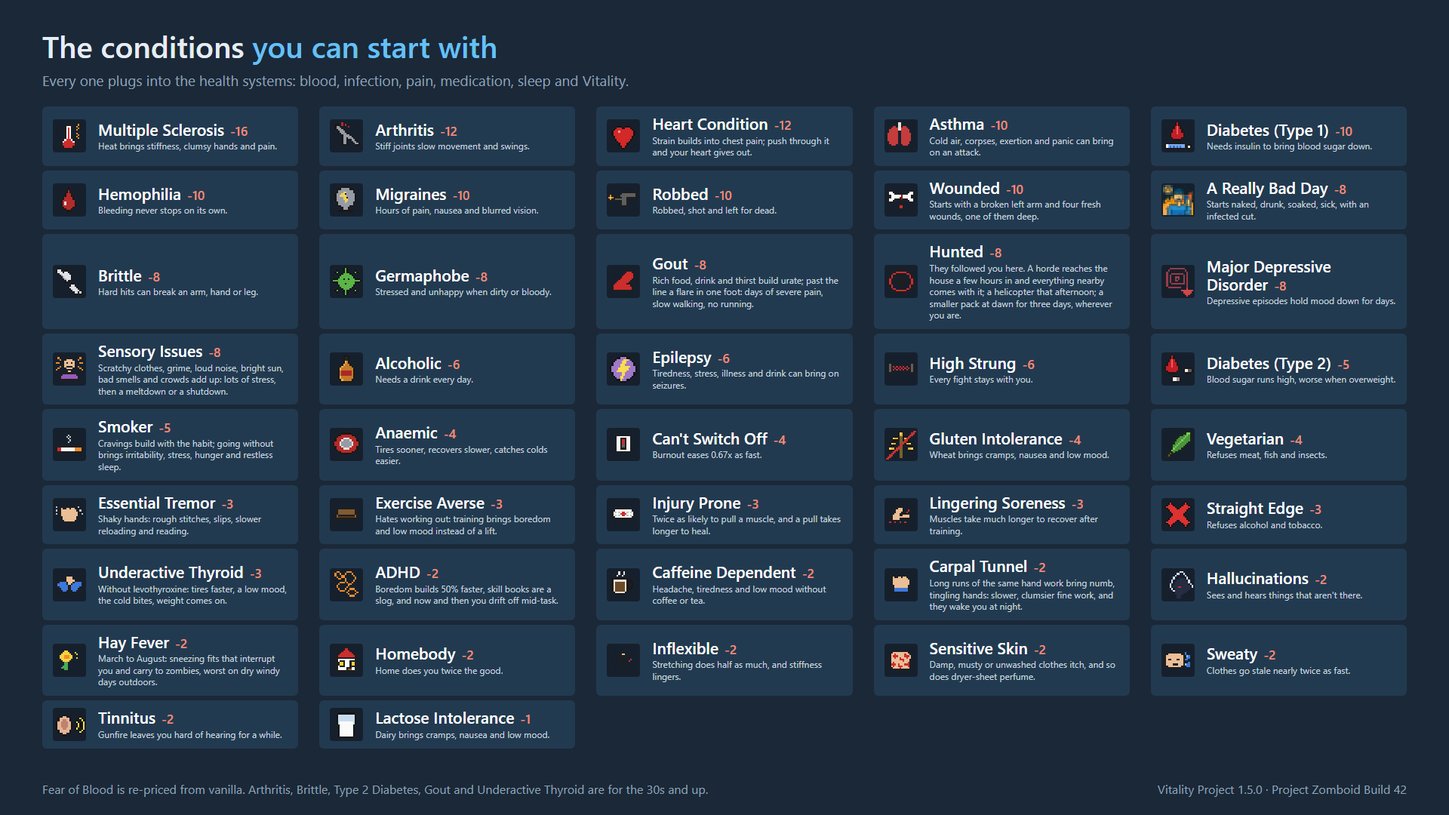
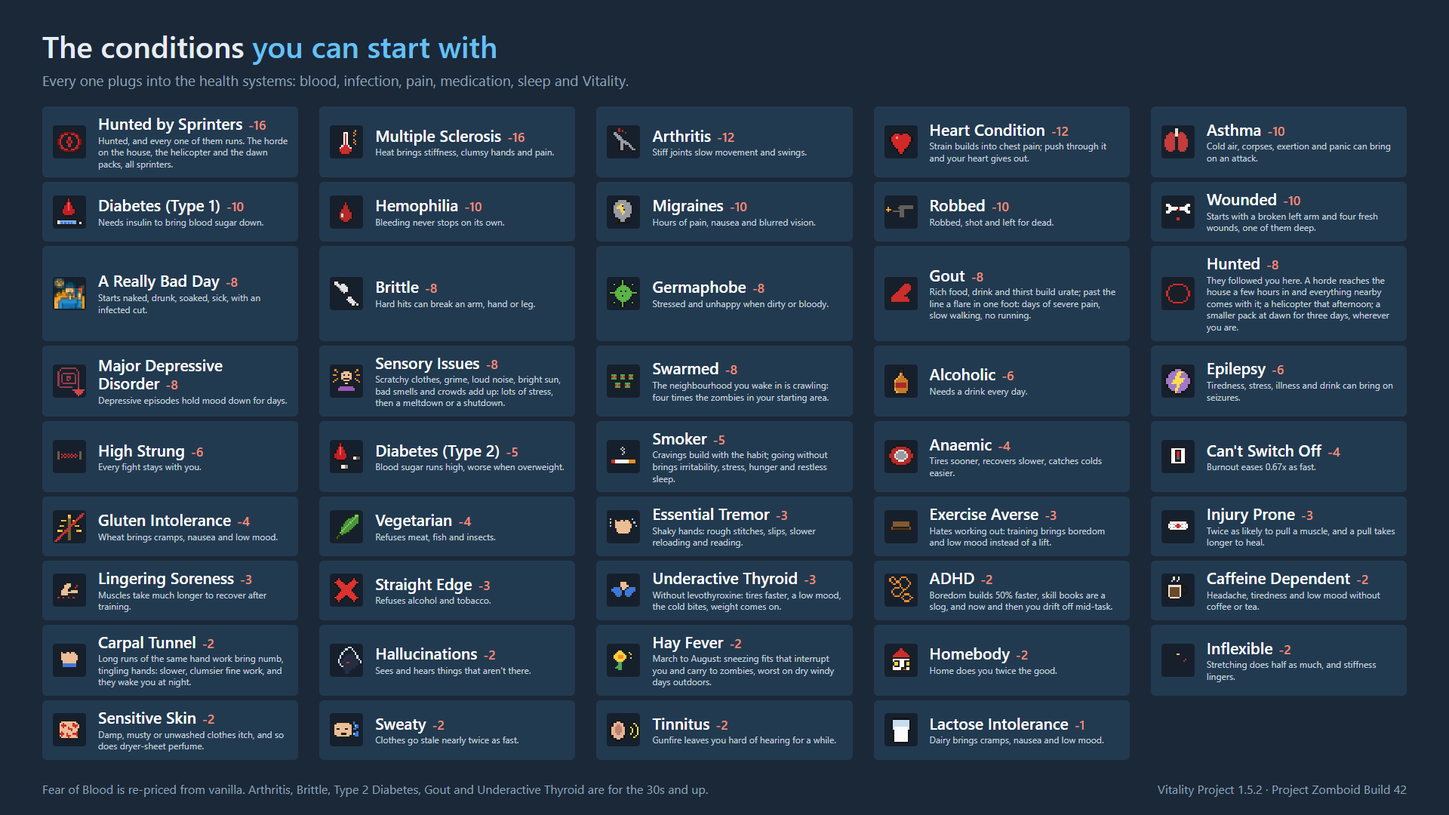
1.5.2 release prep: Steam notes with a mid-save line, the seven Workshop images redrawn, Map Legend 1.1.0 notes
The Steam notes lead with the illnesses and say what an existing save gets; the
changelog carries tonight's date and mod.info names the illnesses and medicines.
The icon sheets, trait matrix (an Illness column) and systems chart (an Illness
and one fever box) are rebuilt for 1.5.2; the items sheet goes to six columns to
fit the new medicines. steam_desc.py takes a folder from the current directory.

diff --git a/workshop/charts/trait-matrix.html b/workshop/charts/trait-matrix.html
@@ -28,103 +28,103 @@
 <div class="sub">The systems run for every character. A trait either changes how one works, or is set off by it, or both.</div>
 <div class="legend"><span class="on">&#9679;</span> the trait changes the system &nbsp;&nbsp; <span class="by">&#9675;</span> the system acts on the trait &nbsp;&nbsp; <span class="on">&#9673;</span> both</div>
 <table id="m"></table>
-<div class="foot">Renaissance Faire Geek, Keen Cook, Blacksmith Knowledge, Quick Study, Natural, Old Hand and Set in Their Ways change skills and experience only, and Hunted only brings the horde, so they have no row. Vitality Project 1.5.0 for Project Zomboid Build 42.</div>
+<div class="foot">Renaissance Faire Geek, Keen Cook, Blacksmith Knowledge, Quick Study, Natural, Old Hand and Set in Their Ways change skills and experience only, and Hunted, Hunted by Sprinters and Swarmed only bring the zombies, so they have no row. Vitality Project 1.5.2 for Project Zomboid Build 42.</div>
 </div>
 <script>
-const cols = ["Food and drink","Effort","Sleep and light","Vitality","Blood","Infection","Wound care, First Aid","Concussion, passing out","Pain","Medi&shy;cation","Alcohol, hang&shy;over","Caffeine","Weather, sun, heat","Spoons","Home","Laundry","Reading","Training","Cooking","Burnout"];
+const cols = ["Food and drink","Effort","Sleep and light","Vitality","Blood","Infection","Wound care, First Aid","Concussion, passing out","Pain","Medi&shy;cation","Alcohol, hang&shy;over","Caffeine","Weather, sun, heat","Spoons","Home","Laundry","Reading","Training","Cooking","Burnout","Illness"];
 // X = changes it, o = acted on by it, B = both, . = nothing
 const rows = [
   ["group","Negative traits"],
-  ["Multiple Sclerosis","-16","oX...o..Xo..oBo..o.."],
-  ["Heart Condition","-12",".Boooo.XXB.oo....o.."],
-  ["Arthritis","-12","........Bo.oo....o.."],
-  ["Asthma","-10",".BBo.o.X.o..o..o.o.."],
-  ["Diabetes Type 1 / 2","-10 / -5","BBoo.BoX.oo......o.."],
-  ["Hemophilia","-10","....X.B............."],
-  ["Migraines","-10","B.B..o.oXBooo......."],
-  ["Brittle","-8","oo....Xo.........o.."],
-  ["Gout","-8","XX......XoX.......o."],
-  ["Major Depressive Disorder","-8","ooBo....oBo...o...oo"],
-  ["Germaphobe","-8",".....X.............."],
-  ["Epilepsy","-6","o.B..o.BXoo.o......."],
-  ["Fear of Blood","-6","....o.BX.......o...."],
-  ["Alcoholic","-6","X.X....XX.B........X"],
-  ["Smoker","-5","XBBo.XX..ooX...X...X"],
-  ["Anaemic","-4","oX..BX...o.o........"],
-  ["Gluten Intolerance","-4","B.oX....X..........."],
-  ["Vegetarian","-4","X..................."],
-  ["Essential Tremor","-3","..o...X..oooo...X..."],
-  ["Underactive Thyroid","-3","X.X......o..o......."],
-  ["Straight Edge","-3","X.........X........."],
-  ["Caffeine Dependent","-2","o.......Xo.B........"],
-  ["Carpal Tunnel","-2",".XX...X............."],
-  ["Hallucinations","-2","..o..o.o..o........."],
-  ["Hay Fever","-2",".........o..o......."],
-  ["Tinnitus","-2","..X................."],
-  ["Lactose Intolerance","-1","B.oX....X..........."],
+  ["Multiple Sclerosis","-16","oX...o..Xo..oBo..o..o"],
+  ["Heart Condition","-12",".Boooo.XXB.oo....o..B"],
+  ["Arthritis","-12","........Bo.oo....o..."],
+  ["Asthma","-10",".BBo.o.X.o..o..o.o..B"],
+  ["Diabetes Type 1 / 2","-10 / -5","BBoo.BoX.oo......o..B"],
+  ["Hemophilia","-10","....X.B.............."],
+  ["Migraines","-10","B.B..o.oXBooo.......o"],
+  ["Brittle","-8","oo....Xo.........o..."],
+  ["Gout","-8","XX......XoX.......o.."],
+  ["Major Depressive Disorder","-8","ooBo....oBo...o...oo."],
+  ["Germaphobe","-8",".....X..............."],
+  ["Epilepsy","-6","o.B..o.BXoo.o.......o"],
+  ["Fear of Blood","-6","....o.BX.......o....."],
+  ["Alcoholic","-6","X.X....XX.B........X."],
+  ["Smoker","-5","XBBo.XX..ooX...X...XX"],
+  ["Anaemic","-4","oX..BX...o.o........."],
+  ["Gluten Intolerance","-4","B.oX....X............"],
+  ["Vegetarian","-4","X...................."],
+  ["Essential Tremor","-3","..o...X..oooo...X...."],
+  ["Underactive Thyroid","-3","X.X......o..o........"],
+  ["Straight Edge","-3","X.........X.........."],
+  ["Caffeine Dependent","-2","o.......Xo.B........."],
+  ["Carpal Tunnel","-2",".XX...X.............."],
+  ["Hallucinations","-2","..o..o.o..o.........o"],
+  ["Hay Fever","-2",".........o..o........"],
+  ["Tinnitus","-2","..X.................."],
+  ["Lactose Intolerance","-1","B.oX....X............"],
   ["group","Crippled starts"],
-  ["Wounded","-10","....X.X............."],
-  ["Robbed","-10","....X.X............."],
-  ["A Really Bad Day","-8","....XX....X....Xo..."],
+  ["Wounded","-10","....X.X.............."],
+  ["Robbed","-10","....X.X.............."],
+  ["A Really Bad Day","-8","....XX....X....Xo...."],
   ["group","Positive traits"],
-  ["Resilient","+10","...o.X.............."],
-  ["Grit","+8","........X..........."],
-  ["Fast Recovery","+8","....X.X............."],
-  ["Deep Sleeper","+6","..XX................"],
-  ["Steady Hands","+5","......X...o........."],
-  ["Iron Gut","+4","X..X................"],
-  ["Good Clotter","+3","....X..............."],
-  ["Thick Skull","+2",".......X.X.........."],
-  ["Outdoorsy","+2","............X......."],
-  ["Cat's Eyes","+1","..X................."],
-  ["Early Riser","+1","..XX................"],
-  ["Meal Prepper","+1","...X................"],
-  ["Gym Regular","+1",".X.X.............X.."],
-  ["Night Shift","+1","..X................."],
-  ["Hollow Legs","+1","..........X........."],
+  ["Resilient","+10","...o.X..............."],
+  ["Grit","+8","........X............"],
+  ["Fast Recovery","+8","....X.X.............."],
+  ["Deep Sleeper","+6","..XX................."],
+  ["Steady Hands","+5","......X...o.........."],
+  ["Iron Gut","+4","X..X................."],
+  ["Good Clotter","+3","....X................"],
+  ["Thick Skull","+2",".......X.X..........."],
+  ["Outdoorsy","+2","............X........"],
+  ["Cat's Eyes","+1","..X.................."],
+  ["Early Riser","+1","..XX................."],
+  ["Meal Prepper","+1","...X................."],
+  ["Gym Regular","+1",".X.X.............X..."],
+  ["Night Shift","+1","..X.................."],
+  ["Hollow Legs","+1","..........X.........."],
   ["group","Burnout traits"],
-  ["Level Headed","+8","...................X"],
-  ["Unwinds Easily","+4","...................X"],
-  ["Can't Switch Off","-4","...................X"],
-  ["High Strung","-6","...................X"],
+  ["Level Headed","+8","...................X."],
+  ["Unwinds Easily","+4","...................X."],
+  ["Can't Switch Off","-4","...................X."],
+  ["High Strung","-6","...................X."],
   ["group","Home and laundry traits"],
-  ["Homebody","-2","..X...........XXX..X"],
-  ["Nomad","+3","..X...........XX...X"],
-  ["Sweaty","-2","...............X...."],
-  ["Cool Customer","+3","...............X...."],
-  ["Slob","+2","...............X...."],
-  ["Homemaker","+4","...............X...X"],
-  ["Sensitive Skin","-2","............X..X...."],
+  ["Homebody","-2","..X...........XXX..X."],
+  ["Nomad","+3","..X...........XX...X."],
+  ["Sweaty","-2","...............X....."],
+  ["Cool Customer","+3","...............X....."],
+  ["Slob","+2","...............X....."],
+  ["Homemaker","+4","...............X...X."],
+  ["Sensitive Skin","-2","............X..X....."],
   ["group","Mind and senses"],
-  ["Sensory Issues","-8","B.o.........o.oo...X"],
-  ["ADHD","-2","...........o..o.X..."],
+  ["Sensory Issues","-8","B.o.........o.oo...X."],
+  ["ADHD","-2","...........o..o.X...."],
   ["group","Training traits"],
-  ["Well Conditioned","+4",".................X.."],
-  ["Weightlifter","+4",".................X.."],
-  ["Natural Runner","+3",".X...............X.."],
-  ["Regimented","+3",".................X.."],
-  ["Newbie Gains","+2",".................X.."],
-  ["Endorphin Junkie","+1",".................X.X"],
-  ["Lingering Soreness","-3",".................X.."],
-  ["Injury Prone","-3",".................X.."],
-  ["Exercise Averse","-3",".................X.."],
-  ["Inflexible","-2","........X........X.."],
+  ["Well Conditioned","+4",".................X..."],
+  ["Weightlifter","+4",".................X..."],
+  ["Natural Runner","+3",".X...............X..."],
+  ["Regimented","+3",".................X..."],
+  ["Newbie Gains","+2",".................X..."],
+  ["Endorphin Junkie","+1",".................X.X."],
+  ["Lingering Soreness","-3",".................X..."],
+  ["Injury Prone","-3",".................X..."],
+  ["Exercise Averse","-3",".................X..."],
+  ["Inflexible","-2","........X........X..."],
   ["group","Age"],
-  ["In Their 20s / 40s / 50s","+5 / 0 / -6","XXX.X.XX.XXX..X....X"],
+  ["In Their 20s / 40s / 50s","+5 / 0 / -6","XXX.X.XX.XXX..X....XX"],
   ["group","Age-only traits"],
-  ["Bottomless Pit (20s)","-6","B..................."],
-  ["Hot-Headed (20s)","-3","..........oo........"],
-  ["Restless (20s)","-3","..............X....."],
-  ["Settled (40s)","-4","..X................."],
-  ["Pace Yourself (40s)","+4",".X.................."],
-  ["Bad Back (40s, 50s)","-8","..o.....Xo.....o.B.."],
-  ["Bad Knees (40s, 50s)","-5",".oo.....X..........."],
-  ["Reading Glasses (40s, 50s)","-2","..o.............o..."],
-  ["Delicate Stomach (40s, 50s)","-2","B.........o........."],
-  ["Old Injury (50s)","-3","........X...o......."],
-  ["Seen It All (50s)","+3",".......X............"],
-  ["Cast Iron (50s)","+2",".........X.........."],
-  ["Old Bones Know Rain (50s)","+1","............o......."],
+  ["Bottomless Pit (20s)","-6","B...................."],
+  ["Hot-Headed (20s)","-3","..........oo........."],
+  ["Restless (20s)","-3","..............X......"],
+  ["Settled (40s)","-4","..X.................."],
+  ["Pace Yourself (40s)","+4",".X..................."],
+  ["Bad Back (40s, 50s)","-8","..o.....Xo.....o.B..."],
+  ["Bad Knees (40s, 50s)","-5",".oo.....X............"],
+  ["Reading Glasses (40s, 50s)","-2","..o.............o...."],
+  ["Delicate Stomach (40s, 50s)","-2","B.........o.........."],
+  ["Old Injury (50s)","-3","........X...o........"],
+  ["Seen It All (50s)","+3",".......X............."],
+  ["Cast Iron (50s)","+2",".........X..........."],
+  ["Old Bones Know Rain (50s)","+1","............o........"],
 ];
 const t = document.getElementById("m");
 let h = "<tr><th class='trait'>Trait<small></small></th>" + cols.map(c => `<th>${c}</th>`).join("") + "</tr>";

diff --git a/workshop/charts/sheet-items.html b/workshop/charts/sheet-items.html
@@ -7,16 +7,16 @@
   h1 { margin: 0; font-size: 40px; font-weight: 600; }
   h1 span { color: #66c0f4; }
   .sub { margin: 6px 0 22px 0; font-size: 19px; color: #8fa3b7; }
-  .grid { display: grid; grid-template-columns: repeat(5, 1fr); gap: 4px 28px; }
-  .cell { display: grid; grid-template-columns: 44px 1fr; gap: 16px; align-items: center;
-          background: #223a50; border-radius: 6px; padding: 10px 14px; min-height: 44px; }
-  .ic { width: 44px; height: 44px; display: grid; place-items: center; background: #16202d; border-radius: 4px; }
-  .ic img { width: 40px; height: 40px; image-rendering: pixelated; }
+  .grid { display: grid; grid-template-columns: repeat(6, 1fr); gap: 4px 28px; }
+  .cell { display: grid; grid-template-columns: 40px 1fr; gap: 16px; align-items: center;
+          background: #223a50; border-radius: 6px; padding: 10px 14px; min-height: 40px; }
+  .ic { width: 40px; height: 40px; display: grid; place-items: center; background: #16202d; border-radius: 4px; }
+  .ic img { width: 36px; height: 36px; image-rendering: pixelated; }
   .nm { font-size: 21px; font-weight: 600; color: #fff; line-height: 1.15; }
   .nm small { font-size: 17px; font-weight: 600; margin-left: 8px; }
   .neg { color: #ef8c78; } .pos { color: #8fc98a; } .zero { color: #8fa3b7; }
   .band { font-size: 14px; color: #66c0f4; text-transform: uppercase; letter-spacing: 1.2px; margin-left: 8px; }
-  .ds { font-size: 12px; color: #c6d4df; line-height: 1.3; margin-top: 3px; }
+  .ds { font-size: 11px; color: #c6d4df; line-height: 1.3; margin-top: 3px; }
   .head { grid-column: 1 / -1; font-size: 15px; color: #8fc9f0; text-transform: uppercase; letter-spacing: 1.6px; margin-top: 6px; }
   .foot { position: absolute; left: 56px; right: 56px; bottom: 24px; font-size: 16px; color: #8fa3b7; display: flex; justify-content: space-between; }
 </style></head>
@@ -30,9 +30,13 @@
 <div class="cell"><div class="ic"><img src="../../DanTraits/42/media/textures/Item_Anticonvulsants.png"></div><div><div class="nm">Anticonvulsants</div><div class="ds">Daily epilepsy pill. Treats: epilepsy.</div></div></div>
 <div class="cell"><div class="ic"><img src="../../DanTraits/42/media/textures/Item_Antihistamines.png"></div><div><div class="nm">Antihistamines</div><div class="ds">Allergy pills. Treats: hay fever.</div></div></div>
 <div class="cell"><div class="ic"><img src="../../DanTraits/42/media/textures/Item_Baclofen.png"></div><div><div class="nm">Baclofen</div><div class="ds">Muscle relaxant. Treats: muscle stiffness and spasms from multiple sclerosis, including stiffness brought on by heat. Dose: one every 12 hours.</div></div></div>
+<div class="cell"><div class="ic"><img src="../../DanTraits/42/media/textures/Item_BismuthLiquid.png"></div><div><div class="nm">Pink Stomach Relief</div><div class="ds">Bismuth subsalicylate, the pink stuff. Eases: nausea, cramps and the runs (a stomach bug, food poisoning).</div></div></div>
 <div class="cell"><div class="ic"><img src="../../DanTraits/42/media/textures/Item_ClottingPowder.png"></div><div><div class="nm">Clotting Powder</div><div class="ds">Styptic powder for a bleeding wound. Use: right-click the bleeding part in the health panel, dressing off.</div></div></div>
 <div class="cell"><div class="ic"><img src="../../DanTraits/42/media/textures/Item_Colchicine.png"></div><div><div class="nm">Colchicine</div><div class="ds">Gout flare pill. Treats: a gout flare.</div></div></div>
+<div class="cell"><div class="ic"><img src="../../DanTraits/42/media/textures/Item_CoughSyrup.png"></div><div><div class="nm">DM Cough Syrup</div><div class="ds">Dextromethorphan and guaifenesin. Eases: coughing (and so the noise) by half.</div></div></div>
+<div class="cell"><div class="ic"><img src="../../DanTraits/42/media/textures/Item_DayColdCapsules.png"></div><div><div class="nm">Daytime Cold and Flu Capsules</div><div class="ds">Acetaminophen, dextromethorphan and pseudoephedrine. Eases: a cold's sneezing and coughing, and brings a fever down. No drowsiness.</div></div></div>
 <div class="cell"><div class="ic"><img src="../../DanTraits/42/media/textures/Item_Diazepam.png"></div><div><div class="nm">Diazepam</div><div class="ds">Anti-anxiety pill. Treats: panic and anxiety.</div></div></div>
+<div class="cell"><div class="ic"><img src="../../DanTraits/42/media/textures/Item_Dimenhydrinate.png"></div><div><div class="nm">Motion Sickness Tablets</div><div class="ds">Dimenhydrinate, for motion sickness. Eases: nausea, by half.</div></div></div>
 <div class="cell"><div class="ic"><img src="../../DanTraits/42/media/textures/Item_DryerSheets.png"></div><div><div class="nm">Dryer Sheets</div><div class="ds">Right-click a dryer to put one in with the load. Everything it dries smells clean for longer once worn: half as fast to go stale, until its next wash. 20 sheets.</div></div></div>
 <div class="cell"><div class="ic"><img src="../../DanTraits/42/media/textures/Item_FabricProtector.png"></div><div><div class="nm">Fabric Protector</div><div class="ds">Spray a garment and it keeps only half of the blood and dirt that lands on it and stays fresh twice as long, for about five washes. 5 garments.</div></div></div>
 <div class="cell"><div class="ic"><img src="../../DanTraits/42/media/textures/Item_FabricWax.png"></div><div><div class="nm">Fabric Wax</div><div class="ds">Rub it into a garment and it keeps only half of the blood and dirt that lands on it and stays fresh twice as long, for about five washes. 4 garments.</div></div></div>
@@ -53,14 +57,16 @@
 <div class="cell"><div class="ic"><img src="../../DanTraits/42/media/textures/Item_Metformin.png"></div><div><div class="nm">Metformin</div><div class="ds">Daily diabetes pill. Treats: Type 2 diabetes.</div></div></div>
 <div class="cell"><div class="ic"><img src="../../DanTraits/42/media/textures/Item_NCHeadphones.png"></div><div><div class="nm">Noise-Cancelling Headphones</div><div class="ds">Worn, they shut out every sound: you hear nothing at all, zombies included, until you take them off. With Sensory Issues, no noise gets through.</div></div></div>
 <div class="cell"><div class="ic"><img src="../../DanTraits/42/media/textures/Item_NicotineGum.png"></div><div><div class="nm">Nicotine Gum</div><div class="ds">Nicotine gum. Treats: cigarette cravings (Smoker).</div></div></div>
+<div class="cell"><div class="ic"><img src="../../DanTraits/42/media/textures/Item_NightColdLiquid.png"></div><div><div class="nm">Night-Time Cold and Flu Liquid</div><div class="ds">Acetaminophen, dextromethorphan and doxylamine, a quarter of it alcohol. Eases: a cold's sneezing and coughing by half, and brings a fever down.</div></div></div>
 <div class="cell"><div class="ic"><img src="../../DanTraits/42/media/textures/Item_Nitroglycerin.png"></div><div><div class="nm">Nitroglycerin</div><div class="ds">Heart rescue tablet. Treats: chest pain (angina).</div></div></div>
 <div class="cell"><div class="ic"><img src="../../DanTraits/42/media/textures/Item_Pancreas.png"></div><div><div class="nm">Pancreas</div><div class="ds">Raw organ meat. Fresh and uncooked, it can be made into a vial of insulin (The Insulin Papers). Spoils fast: keep it cold.</div></div></div>
 <div class="cell"><div class="ic"><img src="../../DanTraits/42/media/textures/Item_PillCaddy.png"></div><div><div class="nm">Pill Caddy</div><div class="ds">Weekly pill organiser. Holds medication only.</div></div></div>
 <div class="cell"><div class="ic"><img src="../../DanTraits/42/media/textures/Item_Prednisone.png"></div><div><div class="nm">Prednisone</div><div class="ds">Steroid for flares. Treats: multiple sclerosis flares, arthritis flares.</div></div></div>
+<div class="cell"><div class="ic"><img src="../../DanTraits/42/media/textures/Item_Promethazine.png"></div><div><div class="nm">Promethazine</div><div class="ds">Promethazine, on prescription. Eases: nausea, most of it.</div></div></div>
 <div class="cell"><div class="ic"><img src="../../DanTraits/42/media/textures/Item_Sumatriptan.png"></div><div><div class="nm">Sumatriptan</div><div class="ds">Migraine pill. Treats: migraine attacks (ordinary painkillers barely touch them).</div></div></div>
 <div class="cell"><div class="ic"><img src="../../DanTraits/42/media/textures/Item_Sunblock.png"></div><div><div class="nm">Sun Block</div><div class="ds">Rub it in and the sun can't burn bare skin for 8 hours. Does nothing for a burn you already have. 8 coats.</div></div></div>
 <div class="cell"><div class="ic"><img src="../../DanTraits/42/media/textures/Item_TestStrips.png"></div><div><div class="nm">Test Strips</div><div class="ds">For a glucose meter. One strip per reading. 25 strips.</div></div></div>
 <div class="cell"><div class="ic"><img src="../../DanTraits/42/media/textures/Item_Washboard.png"></div><div><div class="nm">Washboard</div><div class="ds">Carry it and hand washing gets clothes cleaner, at the cost of a longer scrub.</div></div></div>
 </div></div>
-<div class="foot"><span>Every vanilla medicine works through the same system: build-up, wearing off, side effects and overdoses.</span><span>Vitality Project 1.5.0 &middot; Project Zomboid Build 42</span></div>
+<div class="foot"><span>Every vanilla medicine works through the same system: build-up, wearing off, side effects and overdoses.</span><span>Vitality Project 1.5.2 &middot; Project Zomboid Build 42</span></div>
 </body></html>

diff --git a/workshop/charts/systems-flow.html b/workshop/charts/systems-flow.html
@@ -2,7 +2,7 @@
 <html><head><meta charset="utf-8"><title>Vitality Project: how the systems fit together</title>
 <style>
   html, body { margin: 0; background: #1b2838; color: #e6edf3; font-family: "Segoe UI", Arial, sans-serif; }
-  body { width: 1600px; height: 2440px; position: relative; overflow: hidden; }
+  body { width: 1600px; height: 2560px; position: relative; overflow: hidden; }
   h1 { position: absolute; left: 40px; top: 22px; margin: 0; font-size: 30px; font-weight: 600; letter-spacing: 0.2px; }
   .sub { position: absolute; left: 40px; top: 62px; font-size: 16px; color: #8fa3b7; }
   .col-title { position: absolute; top: 108px; font-size: 14px; text-transform: uppercase; letter-spacing: 1.5px; color: #66c0f4; }
@@ -13,7 +13,7 @@
   .box b { display: block; font-size: 16px; font-weight: 600; color: #ffffff; margin-bottom: 3px; }
   .box span { display: block; font-size: 13px; line-height: 1.3; color: #c6d4df; }
   .box em { display: block; font-size: 12px; line-height: 1.3; color: #8fc9f0; font-style: normal; margin-top: 4px; }
-  svg { position: absolute; left: 0; top: 0; width: 1600px; height: 2440px; pointer-events: none; }
+  svg { position: absolute; left: 0; top: 0; width: 1600px; height: 2560px; pointer-events: none; }
   .foot { position: absolute; left: 40px; bottom: 16px; font-size: 13px; color: #8fa3b7; }
 </style></head>
 <body>
@@ -37,6 +37,7 @@
 <div id="s2" class="box sys" style="left:500px"><b>Sleep and the night's score</b><span>The light on your square sets how deep you sleep and whether it wakes you. Each night is scored: hours, waking, light, fever, the clothes you sleep in.</span><em>Also feeds: Vitality, Spoons, Migraines, Depression, Epilepsy, Hallucinations.</em></div>
 <div id="s3" class="box sys" style="left:500px"><b>Blood</b><span>Bleeding drains blood instead of health, by wound, place and dressing; an open wound still hurts its body part until dressed (a sandbox switch). Pale, light-headed, shock and passing out, bleeding out. Volume returns in a day, red cells in a week.</span><em>Also feeds: Fear of Blood, Anaemic, Hemophilia, Good Clotter, Fast Recovery, endurance recovery.</em></div>
 <div id="s4" class="box sys" style="left:500px"><b>Wound infection and antibiotics</b><span>An hourly roll per wound by depth, dressing and dirt. Incubates unseen, climbs, stops healing, brings fever, then sepsis. Antibiotics are a course with a level in the blood.</span><em>Also feeds: the night's score, Migraines, Hallucinations, MS flares, Asthma, blood sugar, Epilepsy.</em></div>
+<div id="s19" class="box sys" style="left:500px"><b>Illness and one fever</b><span>A cold from being wet and cold, the flu each winter, pneumonia on top of either, strep throat, a stomach bug from dirty hands, food poisoning from bad food. Each incubates unseen, climbs to a peak and eases; rest and sleep at home speed it, running drags it out; antibiotics clear the bacterial ones only. Every fever is one: wound infections and illnesses add up, and past the top of the scale it drains health.</span><em>Also feeds: Vitality (resists it), Smoker, Asthma, Heart, Diabetes and the 50s (worse); the night's score, Migraines, Epilepsy, Spoons, Hallucinations, Burnout; six 1993 medicines and the game's herbs ease the symptoms.</em></div>
 <div id="s5" class="box sys" style="left:500px"><b>Wound care and what First Aid tells you</b><span>Bandages wear out, unstitched wounds heal slowly and reopen, stitches tear; stitching and splinting are First Aid rolls. Clotting powder stops a small bleed. The health panel is written for the examiner's level.</span><em>Also feeds: Infection (open or spent dressings), Blood (bandages, stitches), pain.</em></div>
 <div id="s6" class="box sys" style="left:500px"><b>Concussion and passing out</b><span>Falls, crashes and head hits: headache, nausea, dizzy falls, knockouts, a headache that comes back days later. Shock and faints put you on the floor in real time.</span><em>Also feeds: Migraines, Hallucinations, Epilepsy, light waking you.</em></div>
 <div id="s7" class="box sys" style="left:500px"><b>Pain</b><span>Every lasting ache (hangover, migraine, withdrawal, gut flares, a gout flare, MS heat, concussion) is held on one pain stat. Drink dulls it by how drunk you are; painkillers blank it for a while.</span><em>Also feeds: Depression (mood), Spoons (spent faster), Arthritis slips.</em></div>
@@ -57,8 +58,8 @@
 <div id="o3" class="box out" style="left:1260px"><b>Notices over the head</b><span>Every turn for the worse or better is said once, ten seconds over the head, and published as a story event for other mods.</span></div>
 <div id="o4" class="box out" style="left:1260px"><b>The stats you already watch</b><span>Endurance recovery, pain, mood, stress, panic, tiredness, thirst, sickness, and carry weight.</span></div>
 
-<svg id="arrows" viewBox="0 0 1600 2440"></svg>
-<div class="foot">Vitality Project 1.5.0 for Project Zomboid Build 42. Singleplayer. Most systems have a switch on the Vitality sandbox pages.</div>
+<svg id="arrows" viewBox="0 0 1600 2560"></svg>
+<div class="foot">Vitality Project 1.5.2 for Project Zomboid Build 42. Singleplayer. Most systems have a switch on the Vitality sandbox pages.</div>
 
 <script>
 // stack each column with even gaps between the top and the bottom line
@@ -69,9 +70,9 @@ function stack(ids, top, bottom) {
   let y = top;
   for (const e of els) { e.style.top = y + "px"; y += e.offsetHeight + gap; }
 }
-stack(["i1","i2","i3","i4","i5","i6","i8","i7"], 170, 2370);
-stack(["s1","s2","s3","s4","s5","s6","s7","s8","s9","s10","s11","s13","s14","s15","s16","s17","s18","s12"], 145, 2390);
-stack(["o1","o2","o3","o4"], 300, 2230);
+stack(["i1","i2","i3","i4","i5","i6","i8","i7"], 170, 2490);
+stack(["s1","s2","s3","s4","s19","s5","s6","s7","s8","s9","s10","s11","s13","s14","s15","s16","s17","s18","s12"], 145, 2510);
+stack(["o1","o2","o3","o4"], 300, 2350);
 
 const svg = document.getElementById("arrows");
 function side(id, which) {
@@ -101,6 +102,7 @@ arrow("i7","s13",blue); arrow("i7","s14",blue); arrow("i7","s15",blue);
 arrow("i2","s16",blue); arrow("i1","s17",blue); arrow("i3","s16",blue,1.2);
 arrow("i3","s13",blue,1.2); arrow("i2","s14",blue,1.2); arrow("i5","s14",blue,1.2);
 arrow("i8","s18",blue); arrow("i4","s18",blue,1.2); arrow("i3","s18",blue,1.2);
+arrow("i5","s19",blue); arrow("i1","s19",blue); arrow("i3","s19",blue,1.2); arrow("i2","s19",blue,1.2); arrow("i6","s19",blue,1.2);
 // systems -> what you see: one bracket, drawn as lines from the column edge
 const sysRight = side("s1","right").x + 8;
 const yTop = side("s1","right").y, yBot = side("s12","right").y;

diff --git a/workshop/charts/sheet-conditions.html b/workshop/charts/sheet-conditions.html
@@ -24,6 +24,7 @@
 <h1>The conditions <span>you can start with</span></h1>
 <div class="sub">Every one plugs into the health systems: blood, infection, pain, medication, sleep and Vitality.</div>
 <div class="grid">
+<div class="cell"><div class="ic"><img src="../../DanTraits/42/media/ui/Traits/trait_huntedsprint.png"></div><div><div class="nm">Hunted by Sprinters<small class="neg">-16</small></div><div class="ds">Hunted, and every one of them runs. The horde on the house, the helicopter and the dawn packs, all sprinters.</div></div></div>
 <div class="cell"><div class="ic"><img src="../../DanTraits/42/media/ui/Traits/trait_ms.png"></div><div><div class="nm">Multiple Sclerosis<small class="neg">-16</small></div><div class="ds">Heat brings stiffness, clumsy hands and pain.</div></div></div>
 <div class="cell"><div class="ic"><img src="../../DanTraits/42/media/ui/Traits/trait_arthritis.png"></div><div><div class="nm">Arthritis<small class="neg">-12</small></div><div class="ds">Stiff joints slow movement and swings.</div></div></div>
 <div class="cell"><div class="ic"><img src="../../DanTraits/42/media/ui/Traits/trait_heart.png"></div><div><div class="nm">Heart Condition<small class="neg">-12</small></div><div class="ds">Strain builds into chest pain; push through it and your heart gives out.</div></div></div>
@@ -40,6 +41,7 @@
 <div class="cell"><div class="ic"><img src="../../DanTraits/42/media/ui/Traits/trait_hunted.png"></div><div><div class="nm">Hunted<small class="neg">-8</small></div><div class="ds">They followed you here. A horde reaches the house a few hours in and everything nearby comes with it; a helicopter that afternoon; a smaller pack at dawn for three days, wherever you are.</div></div></div>
 <div class="cell"><div class="ic"><img src="../../DanTraits/42/media/ui/Traits/trait_spiraling.png"></div><div><div class="nm">Major Depressive Disorder<small class="neg">-8</small></div><div class="ds">Depressive episodes hold mood down for days.</div></div></div>
 <div class="cell"><div class="ic"><img src="../../DanTraits/42/media/ui/Traits/trait_sensory.png"></div><div><div class="nm">Sensory Issues<small class="neg">-8</small></div><div class="ds">Scratchy clothes, grime, loud noise, bright sun, bad smells and crowds add up: lots of stress, then a meltdown or a shutdown.</div></div></div>
+<div class="cell"><div class="ic"><img src="../../DanTraits/42/media/ui/Traits/trait_swarmed.png"></div><div><div class="nm">Swarmed<small class="neg">-8</small></div><div class="ds">The neighbourhood you wake in is crawling: four times the zombies in your starting area.</div></div></div>
 <div class="cell"><div class="ic"><img src="../../DanTraits/42/media/ui/Traits/trait_dependent.png"></div><div><div class="nm">Alcoholic<small class="neg">-6</small></div><div class="ds">Needs a drink every day.</div></div></div>
 <div class="cell"><div class="ic"><img src="../../DanTraits/42/media/ui/Traits/trait_epilepsy.png"></div><div><div class="nm">Epilepsy<small class="neg">-6</small></div><div class="ds">Tiredness, stress, illness and drink can bring on seizures.</div></div></div>
 <div class="cell"><div class="ic"><img src="../../DanTraits/42/media/ui/Traits/trait_highlystrung.png"></div><div><div class="nm">High Strung<small class="neg">-6</small></div><div class="ds">Every fight stays with you.</div></div></div>
@@ -67,5 +69,5 @@
 <div class="cell"><div class="ic"><img src="../../DanTraits/42/media/ui/Traits/trait_tinnitus.png"></div><div><div class="nm">Tinnitus<small class="neg">-2</small></div><div class="ds">Gunfire leaves you hard of hearing for a while.</div></div></div>
 <div class="cell"><div class="ic"><img src="../../DanTraits/42/media/ui/Traits/trait_lactose.png"></div><div><div class="nm">Lactose Intolerance<small class="neg">-1</small></div><div class="ds">Dairy brings cramps, nausea and low mood.</div></div></div>
 </div></div>
-<div class="foot"><span>Fear of Blood is re-priced from vanilla. Arthritis, Brittle, Type 2 Diabetes, Gout and Underactive Thyroid are for the 30s and up.</span><span>Vitality Project 1.5.0 &middot; Project Zomboid Build 42</span></div>
+<div class="foot"><span>Fear of Blood is re-priced from vanilla. Arthritis, Brittle, Type 2 Diabetes, Gout and Underactive Thyroid are for the 30s and up.</span><span>Vitality Project 1.5.2 &middot; Project Zomboid Build 42</span></div>
 </body></html>

diff --git a/workshop/charts/sheet-perks.html b/workshop/charts/sheet-perks.html
@@ -49,5 +49,5 @@
 <div class="cell"><div class="ic"><img src="../../DanTraits/42/media/ui/Traits/trait_mealprepper.png"></div><div><div class="nm">Meal Prepper<small class="pos">+1</small></div><div class="ds">Starts on a good diet. Diet variety counts over five days.</div></div></div>
 <div class="cell"><div class="ic"><img src="../../DanTraits/42/media/ui/Traits/trait_nightshift.png"></div><div><div class="nm">Night Shift<small class="pos">+1</small></div><div class="ds">Sleeps soundly during the day.</div></div></div>
 </div></div>
-<div class="foot"><span>Also re-priced from vanilla: Resilient (the Knox roll), Iron Gut, Keen Cook, Blacksmith Knowledge and Cat's Eyes; Outdoorsy shrugs off sunburn.</span><span>Vitality Project 1.5.0 &middot; Project Zomboid Build 42</span></div>
+<div class="foot"><span>Also re-priced from vanilla: Resilient (the Knox roll), Iron Gut, Keen Cook, Blacksmith Knowledge and Cat's Eyes; Outdoorsy shrugs off sunburn.</span><span>Vitality Project 1.5.2 &middot; Project Zomboid Build 42</span></div>
 </body></html>

diff --git a/workshop/charts/sheet-age.html b/workshop/charts/sheet-age.html
@@ -48,5 +48,5 @@
 <div class="cell"><div class="ic"><img src="../../DanTraits/42/media/ui/Traits/trait_castiron.png"></div><div><div class="nm">Cast Iron<small class="pos">+2</small><span class="band">50s</span></div><div class="ds">Fewer medication side effects.</div></div></div>
 <div class="cell"><div class="ic"><img src="../../DanTraits/42/media/ui/Traits/trait_oldbones.png"></div><div><div class="nm">Old Bones Know Rain<small class="pos">+1</small><span class="band">50s</span></div><div class="ds">Each morning, warns of bad weather coming tomorrow.</div></div></div>
 </div></div>
-<div class="foot"><span>Strong, Athletic, Stout, Fit, Fast and Slow Learner and Hearty Appetite are priced by age.</span><span>Vitality Project 1.5.0 &middot; Project Zomboid Build 42</span></div>
+<div class="foot"><span>Strong, Athletic, Stout, Fit, Fast and Slow Learner and Hearty Appetite are priced by age.</span><span>Vitality Project 1.5.2 &middot; Project Zomboid Build 42</span></div>
 </body></html>

diff --git a/workshop/charts/sheet-moodles.html b/workshop/charts/sheet-moodles.html
@@ -74,5 +74,5 @@
 <div class="cell"><div class="ic"><img src="../../DanTraits/42/media/ui/Vitality.png"></div><div><div class="nm">Vitality</div><div class="ds">Fit → Thriving  |  Sluggish → Run Down</div></div></div>
 <div class="cell"><div class="ic"><img src="../../DanTraits/42/media/ui/WeakHeart.png"></div><div><div class="nm">After a heart attack</div><div class="ds">Heart on the Mend → Weak Heart → Heart Attack Recovery</div></div></div>
 </div></div>
-<div class="foot"><span>The vanilla Angry moodle now has teeth too: rough on weapons, sloppy, loud.</span><span>Vitality Project 1.5.0 &middot; Project Zomboid Build 42</span></div>
+<div class="foot"><span>The vanilla Angry moodle now has teeth too: rough on weapons, sloppy, loud.</span><span>Vitality Project 1.5.2 &middot; Project Zomboid Build 42</span></div>
 </body></html>

diff --git a/workshop/charts/make_sheets.py b/workshop/charts/make_sheets.py
@@ -16,7 +16,7 @@ import re
 HERE = os.path.dirname(os.path.abspath(__file__))
 MEDIA = os.path.join(HERE, "..", "..", "DanTraits", "42", "media")
 EN = os.path.join(MEDIA, "lua", "shared", "Translate", "EN")
-VERSION = "1.5.0"
+VERSION = "1.5.2"
 
 RETIRED = {"jinxed", "ironstomach", "bouncesback", "green"}
 # items kept in the script for old saves only
@@ -221,7 +221,7 @@ def main():
         while n < len(tip) and tip[n - 1].endswith(","):
             n += 1
         items.append(cell(icon_url("textures", f), name, desc=ITEM_DESC.get(iid) or " ".join(tip[:n])))
-    write("items", title="Items", cols=5, gap=4, box=44, img=40, ds=12,
+    write("items", title="Items", cols=6, gap=4, box=40, img=36, ds=11,
           h1="The pharmacy <span>and the rest of the kit</span>",
           sub="Medicine you have to find, ration and keep on you, and what you need for insulin, laundry, training and a quiet head.",
           cells="\n".join(items),

diff --git a/workshop/steam_desc.py b/workshop/steam_desc.py
@@ -31,7 +31,7 @@ def steam_count(lines):
 def main():
     args = [a for a in sys.argv[1:] if not a.startswith("--")]
     check = "--check" in sys.argv[1:]
-    folder = os.path.join(HERE, args[0]) if args else HERE
+    folder = os.path.abspath(args[0]) if args else HERE
     desc_path = os.path.join(folder, "description.txt")
     ws_path = os.path.join(folder, "workshop.txt")
     with io.open(desc_path, encoding="utf-8") as f:

diff --git a/README.md b/README.md
@@ -1030,7 +1030,7 @@ The game's Lua (Kahlua) allows 200 locals and 60 upvalues per function, the file
 
 ## Status and known issues
 
-Version 1.5.2 (built, not yet uploaded), Build 42, singleplayer only (multiplayer is untested and not supported). What changed in each update is in [CHANGELOG.md](CHANGELOG.md); the Workshop page carries the short version.
+Version 1.5.2 (2026-11-07), Build 42, singleplayer only (multiplayer is untested and not supported). What changed in each update is in [CHANGELOG.md](CHANGELOG.md); the Workshop page carries the short version.
 
 - **Split-screen** co-op works: the clocks run for every local player, and since the 2026-10-29 review so do the damage, swing and hit events (bleeding, concussion, fractures, tinnitus, wound strain). The grants at game start (starting kits, the folded-in vanilla traits) still go to player 1 only. Multiplayer over a network is a separate matter (`plans/multiplayer.md`).
 - **A Really Bad Day** is not balanced yet. Its glass shard killed even a character with no other traits, so for now the wound is an infected cut and the trait gives 8 points instead of 12, until a proper balance is found.

diff --git a/CHANGELOG.md b/CHANGELOG.md
@@ -38,7 +38,7 @@ version of each entry (`workshop/changelog.txt`); this file has the detail.
   `workshop/maplegend/make_images.py` from the game's own symbol icons). `deploy.py --workshop`
   takes a mod name now; plain `--workshop` is still the main mod.
 
-## 1.5.2 - 2026-11-01
+## 1.5.2 - 2026-11-07
 
 ### New
 
